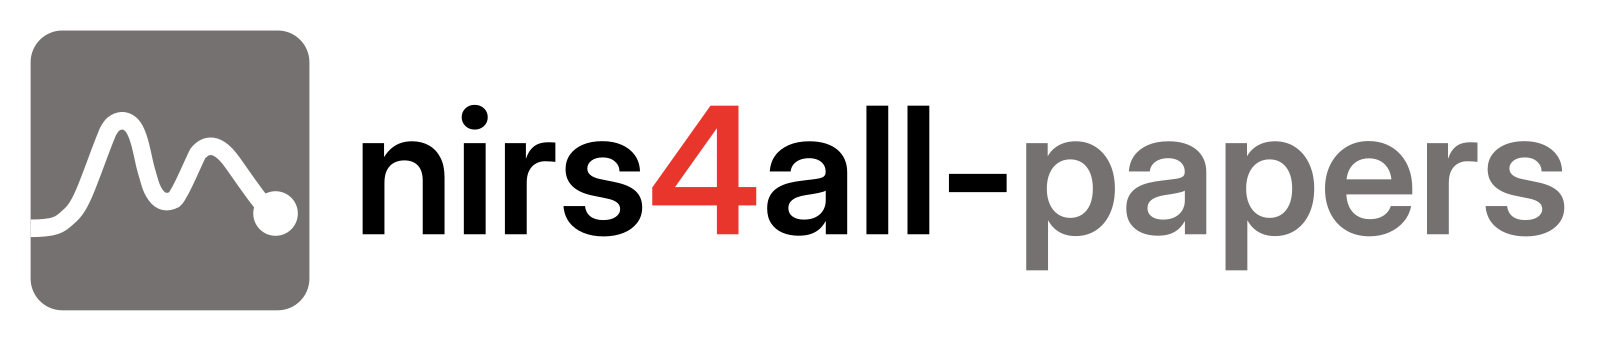
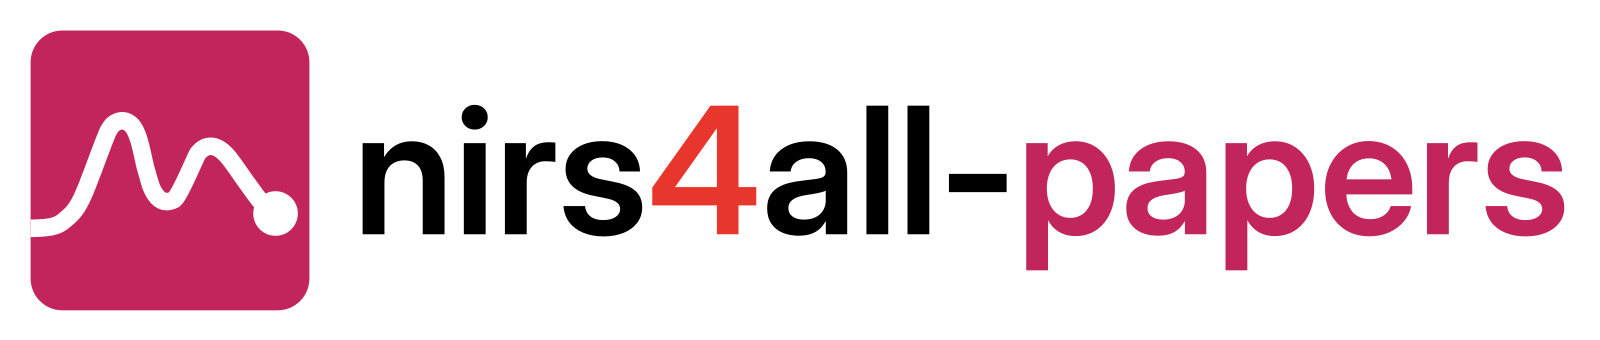
release: v0.2.0 — publisher MVP; rebrand papers to rose #C2255C
- Brand: replace the placeholder grey (#767171) papers mark with a proper,
  distinct brand colour #C2255C (regenerated icon/horizontal/stacked/og/favicon).
- Bump version 0.1.0 -> 0.2.0 (first functional PyPI release of n4a-papers).

Changed region(s): [[0.0, 0.0882, 0.2188, 0.9118], [0.625, 0.4118, 1.0, 0.7941]]

diff --git a/src/nirs4all_papers/__init__.py b/src/nirs4all_papers/__init__.py
@@ -9,4 +9,4 @@ See ``docs/REPRODUCTION_PUBLISHER.md`` for the product design.
 """
 from __future__ import annotations
 
-__version__ = "0.1.0"
+__version__ = "0.2.0"
